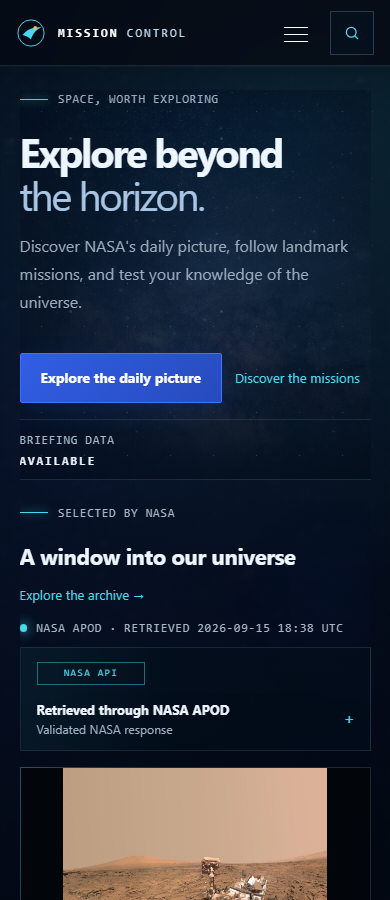
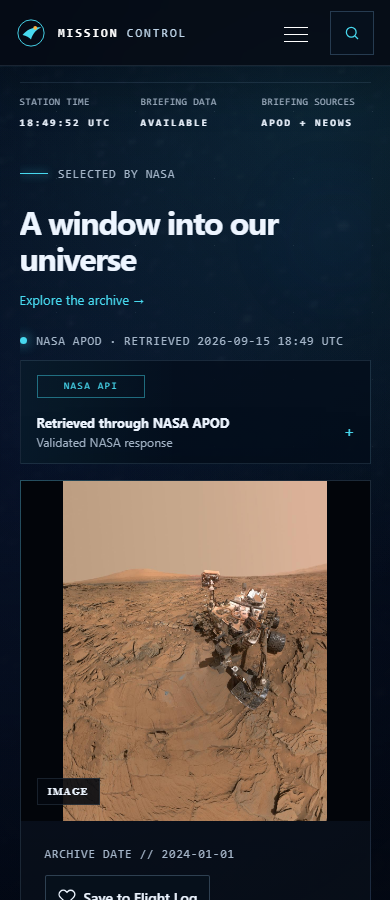
design: simplify homepage to a single NASA image column

diff --git a/apps/client/src/styles/global.css b/apps/client/src/styles/global.css
@@ -7027,35 +7027,38 @@ main :is(a, button, input, select, textarea, summary) {
   }
 }
 
+/* The daily picture is the single homepage focal point. */
 .dashboard-first-look {
-  display: grid;
-  grid-template-columns: minmax(0, 0.8fr) minmax(0, 1.2fr);
-  gap: 2.5rem;
   max-width: 1240px;
   margin: 0 auto;
-  padding: 2.5rem 1.5rem;
+  padding: 1.5rem;
 }
 .dashboard-first-look > .section {
   width: 100%;
-  padding: 0;
+  padding: 1.5rem 0 0;
   margin: 0;
 }
-.dashboard-first-look .hero-grid {
-  display: block;
-}
-.dashboard-first-look .hero-grid > div:first-child {
-  position: static;
-}
-.dashboard-first-look .dashboard-hero {
-  align-self: start;
-  padding-top: 0;
-}
 .dashboard-first-look .telemetry {
+  display: grid;
   grid-template-columns: repeat(3, minmax(0, 1fr));
   gap: 1rem;
-  margin-top: 2rem;
+  margin: 0;
   background: none;
   box-shadow: none;
+}
+.dashboard-first-look .telemetry > span {
+  display: flex;
+  padding: 0.75rem 0;
+  gap: 0.4rem;
+}
+.dashboard-first-look .telemetry strong {
+  overflow-wrap: anywhere;
+}
+.dashboard-first-look .section-heading h1 {
+  margin: 0;
+  font-size: clamp(2rem, 4vw, 3rem);
+  line-height: 1.1;
+  letter-spacing: -0.04em;
 }
 .dashboard-first-look .apod-panel {
   display: block;
@@ -7065,7 +7068,7 @@ main :is(a, button, input, select, textarea, summary) {
 }
 .dashboard-first-look .apod-image {
   width: 100%;
-  height: 340px;
+  height: clamp(340px, 45vw, 560px);
   object-fit: contain;
 }
 .dashboard-first-look .apod-copy {
@@ -7074,102 +7077,20 @@ main :is(a, button, input, select, textarea, summary) {
 .dashboard-first-look .apod-copy h2 {
   font-size: clamp(1.4rem, 2vw, 2rem);
 }
-.dashboard-first-look .section-heading h2 {
-  font-size: clamp(1.4rem, 2vw, 2rem);
-}
-@media (max-width: 900px) {
-  .dashboard-first-look {
-    grid-template-columns: 1fr;
-    gap: 1.5rem;
-    padding: 1.5rem 5%;
-  }
-  .dashboard-first-look .dashboard-hero {
-    padding-top: 0;
-  }
-  .dashboard-first-look .telemetry {
-    display: flex;
-    margin-top: 1rem;
-  }
-  .dashboard-first-look .telemetry > span:nth-child(2) {
-    display: flex;
-  }
-  .dashboard-first-look .telemetry > span:not(:nth-child(2)) {
-    display: none;
-  }
-  .dashboard-first-look .apod-image {
-    height: 340px;
-  }
-}
-
-.dashboard-hero[data-animations-paused="true"] *,
-.dashboard-hero[data-animations-paused="true"]::before,
-.dashboard-hero[data-animations-paused="true"]::after {
-  animation-play-state: paused;
-}
-@media (max-width: 600px) {
-  .dashboard-hero::before {
-    background-image:
-      linear-gradient(
-        90deg,
-        rgba(3, 8, 18, 0.9) 0%,
-        rgba(3, 8, 18, 0.45) 52%,
-        rgba(3, 8, 18, 0.7) 100%
-      ),
-      linear-gradient(0deg, #050912 0%, transparent 34%),
-      url("/assets/milky-way-960.webp");
-  }
-}
-
-/* Reserve the daily image area before data arrives. */
-.briefing .state-panel--loading {
-  min-height: 580px;
-  align-items: flex-start;
-}
-@media (max-width: 900px) {
-  .briefing .state-panel--loading {
-    min-height: 480px;
-  }
-}
-@media (max-width: 600px) {
-  .briefing .state-panel--loading {
-    min-height: 340px;
-  }
-}
-.dashboard-hero h1 {
-  line-height: 1.08;
-}
-
-.dashboard-first-look .hero-lede {
-  width: auto;
-  max-width: 100%;
-}
-.dashboard-first-look .hero-actions {
-  align-items: center;
-}
-.dashboard-first-look .dashboard-hero::before {
-  opacity: 0.3;
-}
 .dashboard-first-look .briefing .state-panel--loading {
   min-height: 680px;
 }
-
-@media (min-width: 901px) {
-  .dashboard-first-look .dashboard-hero::before,
-  .dashboard-first-look .dashboard-hero::after {
-    background: none;
+@media (max-width: 600px) {
+  .dashboard-first-look {
+    padding: 1rem 5%;
   }
-  .dashboard-first-look .hero-immersion__horizon {
-    display: none;
-  }
-  .dashboard-first-look .hero-immersion {
-    mask-image: linear-gradient(to right, #000, transparent);
-  }
-  .dashboard-first-look .section-heading {
-    align-items: start;
-    flex-direction: column;
+  .dashboard-first-look .telemetry {
     gap: 0.75rem;
   }
+  .dashboard-first-look .telemetry small {
+    font-size: 0.6rem;
+  }
   .dashboard-first-look .telemetry strong {
-    overflow-wrap: anywhere;
+    font-size: 0.65rem;
   }
 }

diff --git a/apps/client/src/pages/DashboardPage.tsx b/apps/client/src/pages/DashboardPage.tsx
@@ -1,4 +1,4 @@
-import { useEffect, useRef, useState } from "react";
+import { useEffect, useState } from "react";
 import { Link } from "react-router-dom";
 import { ApiError } from "../api/apod";
 import { ApodPanel } from "../components/ApodPanel";
@@ -13,30 +13,6 @@ import { briefingStatus, feedStatus } from "../utils/briefingStatus";
 import { utcDate } from "../utils/dates";
 
 export function DashboardPage() {
-  const heroRef = useRef<HTMLElement>(null);
-  useEffect(() => {
-    const hero = heroRef.current;
-    if (!hero) return;
-    let visible = true;
-    const update = () => {
-      hero.dataset.animationsPaused = String(!visible || document.hidden);
-    };
-    const observer =
-      typeof IntersectionObserver === "function"
-        ? new IntersectionObserver(([entry]) => {
-            visible = entry?.isIntersecting ?? false;
-            update();
-          })
-        : undefined;
-    observer?.observe(hero);
-    document.addEventListener("visibilitychange", update);
-    update();
-    return () => {
-      observer?.disconnect();
-      document.removeEventListener("visibilitychange", update);
-      delete hero.dataset.animationsPaused;
-    };
-  }, []);
   const query = useApod();
   const asteroidQuery = useAsteroids(utcDate(), utcDate(6));
   const favorites = useFavorites();
@@ -47,53 +23,20 @@ export function DashboardPage() {
   return (
     <>
       <div className="dashboard-first-look">
-        <section ref={heroRef} className="hero section dashboard-hero">
-          <div className="hero-immersion" aria-hidden="true">
-            <span className="hero-immersion__stars hero-immersion__stars--near" />
-            <span className="hero-immersion__stars hero-immersion__stars--far" />
-            <span className="hero-immersion__horizon" />
-            <span className="hero-immersion__scan" />
-          </div>
-          <div className="hero-grid">
-            <div>
-              <p className="kicker">
-                <span />
-                Space, worth exploring
-              </p>
-              <h1>
-                Explore beyond
-                <br />
-                <em>the horizon.</em>
-              </h1>
-              <p className="hero-lede">
-                Discover NASA's daily picture, follow landmark missions, and
-                test your knowledge of the universe.
-              </p>
-              <div className="hero-actions">
-                <Link className="button" to="/apod">
-                  Explore the daily picture
-                </Link>
-                <Link className="text-link" to="/missions">
-                  Discover the missions
-                </Link>
-              </div>
-            </div>
-          </div>
-          <div className="telemetry">
-            <span>
-              <small>Station time</small>
-              <UtcClock />
-            </span>
-            <span>
-              <small>Briefing data</small>
-              <strong>{status}</strong>
-            </span>
-            <span>
-              <small>Briefing sources</small>
-              <strong>APOD + NeoWs</strong>
-            </span>
-          </div>
-        </section>
+        <div className="telemetry">
+          <span>
+            <small>Station time</small>
+            <UtcClock />
+          </span>
+          <span>
+            <small>Briefing data</small>
+            <strong>{status}</strong>
+          </span>
+          <span>
+            <small>Briefing sources</small>
+            <strong>APOD + NeoWs</strong>
+          </span>
+        </div>
         <section className="section briefing" id="daily-briefing">
           <div className="section-heading">
             <div>
@@ -101,7 +44,7 @@ export function DashboardPage() {
                 <span />
                 Selected by NASA
               </p>
-              <h2>A window into our universe</h2>
+              <h1>A window into our universe</h1>
             </div>
             <Link className="text-link" to="/apod">
               Explore the archive →

diff --git a/tests/e2e/app.spec.ts b/tests/e2e/app.spec.ts
@@ -328,7 +328,7 @@ test("loads APOD, saves it, and preserves it in the Flight Log", async ({
   await mockAsteroids(page);
   await page.goto("/");
   await expect(
-    page.getByRole("heading", { name: "Explore beyond the horizon." }),
+    page.getByRole("heading", { name: "A window into our universe" }),
   ).toBeVisible();
   await expect(page.getByRole("heading", { name: apod.title })).toBeVisible();
   await capturePortfolioScreenshot(page, {
@@ -1002,41 +1002,6 @@ test("reuses a recent Space Weather result after navigating away and back", asyn
   await page.goBack();
   await expect(page.locator(".weather-card").first()).toBeVisible();
   expect(requests).toBe(1);
-});
-
-test("pauses decorative hero motion offscreen and resumes on return", async ({
-  page,
-}) => {
-  await page.emulateMedia({ reducedMotion: "no-preference" });
-  await mockApod(page);
-  await mockAsteroids(page);
-  await page.goto("/");
-  const hero = page.locator(".dashboard-hero");
-  await expect(hero).toHaveAttribute("data-animations-paused", "false");
-  await page.locator(".site-footer").scrollIntoViewIfNeeded();
-  await expect(hero).toHaveAttribute("data-animations-paused", "true");
-  await expect
-    .poll(() =>
-      hero.evaluate(
-        (element) =>
-          element
-            .getAnimations({ subtree: true })
-            .filter((animation) => animation.playState === "running").length,
-      ),
-    )
-    .toBe(0);
-  await page.evaluate(() => window.scrollTo({ top: 0, behavior: "instant" }));
-  await expect(hero).toHaveAttribute("data-animations-paused", "false");
-  await expect
-    .poll(() =>
-      hero.evaluate(
-        (element) =>
-          element
-            .getAnimations({ subtree: true })
-            .filter((animation) => animation.playState === "running").length,
-      ),
-    )
-    .toBeGreaterThan(0);
 });
 
 test("keeps the mobile dashboard stable while fonts and data load", async ({

diff --git a/docs/launch-polish.md b/docs/launch-polish.md
@@ -2,7 +2,7 @@
 
 This cycle refines existing features before promoting the site.
 
-1. **Implemented: stronger first impression.** The desktop introduction sits beside the daily NASA picture, replacing the decorative orbit illustration. Clear introductory copy leads to one primary APOD action and a quieter Mission Archive link. Mobile stacks the introduction and image, with a compact data status. The image uses a stable frame without cropping; existing save, source, error, and video behavior remains available. Participant confirmation of first-impression clarity is pending phase 5.
+1. **Implemented: stronger first impression.** Following visual review, the homepage now uses a single column. The introduction and its decorative animation are removed; station time, briefing data, and briefing sources sit above the NASA selection. The daily image is the primary focal point, with existing archive, save, source, error, and video behavior retained. Participant confirmation of first-impression clarity is pending phase 5.
 2. **Planned: page composition.** Consistent content widths, image framing, typography, filters, and spacing throughout existing pages.
 3. **Planned: interaction polish.** Refine selected, saved, loading, feedback, focus, and transition states.
 4. **Planned: incoming-traffic readiness.** Review metadata, sharing previews, direct entry routes, deployed performance, and recovery behavior.
@@ -10,11 +10,11 @@ This cycle refines existing features before promoting the site.
 
 ## Phase 1 verification
 
-Desktop alignment follow-up: both column introductions share the same top edge. The archive link sits beneath its heading, status details use a compact horizontal row, and the separate decorative background behind the introduction is removed on desktop. The captures below include this correction.
+The user-requested single-column follow-up supersedes the earlier side-by-side layout. All three status items remain visible at narrow widths. The daily selection is now the page's primary heading, and the removed hero's observer and animation test were retired.
 
 Typecheck, lint, unit/component/accessibility tests, production build, and the production browser suite passed. Existing compressed asset budgets remain satisfied. The delayed-font/data fixture recorded zero CLS at 390px and 1440px after reserving the image frame. These are controlled measurements, not field-performance claims.
 
-The [previous desktop layout](screenshots/loading-stability/desktop.png) shows the introduction above the picture. Updated deterministic captures show the desktop side-by-side composition and mobile stack; content fixtures differ, so these are layout evidence rather than image-quality comparisons.
+The [previous desktop layout](screenshots/loading-stability/desktop.png) shows the introduction above the picture. Updated deterministic captures show the single-column desktop and mobile composition; content fixtures differ, so these are layout evidence rather than image-quality comparisons.
 
 ![Updated desktop homepage](screenshots/launch-polish/desktop.png)
 

diff --git a/README.md b/README.md
@@ -363,6 +363,8 @@ The [current five-phase roadmap](docs/next-roadmap.md) tracks the September 8 cy
 
 88. **Complete — Homepage alignment follow-up:** aligned the desktop introduction and image-section headers, compacted the status row, and removed the separate desktop backdrop to connect the columns visually. Updated the [launch screenshots](docs/launch-polish.md).
 
+89. **Complete — Single-column homepage:** removed the introductory hero and its animation observer, placed all three status items above the NASA selection, and expanded the daily-image frame. Updated the [launch roadmap and screenshots](docs/launch-polish.md).
+
 ## Screenshots
 
 The captures below use deterministic mocked NASA content. Regenerate them with `npm run screenshots:update` without consuming NASA API quota.
